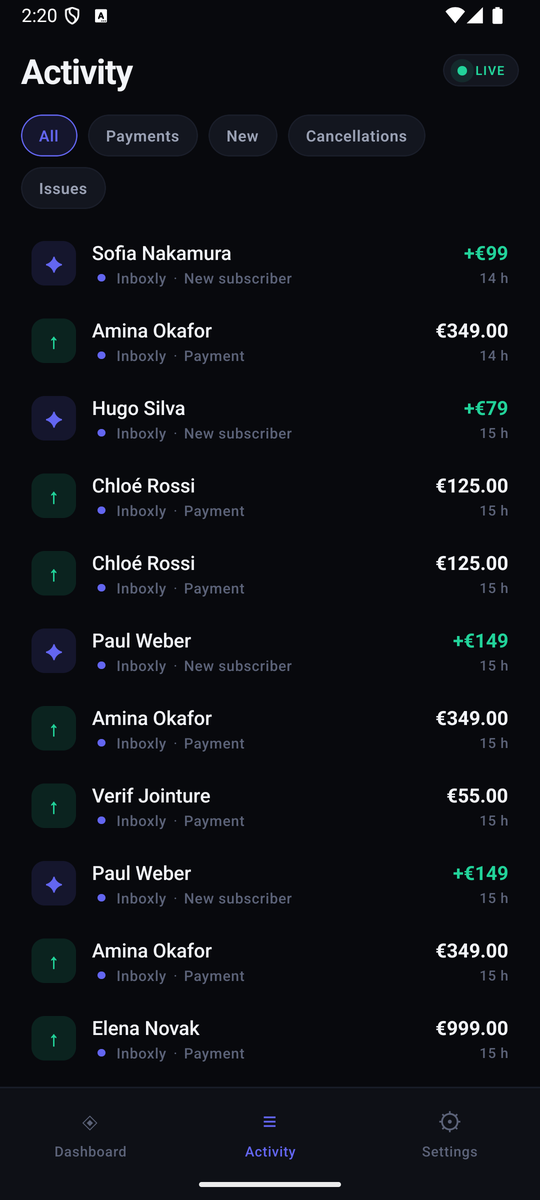
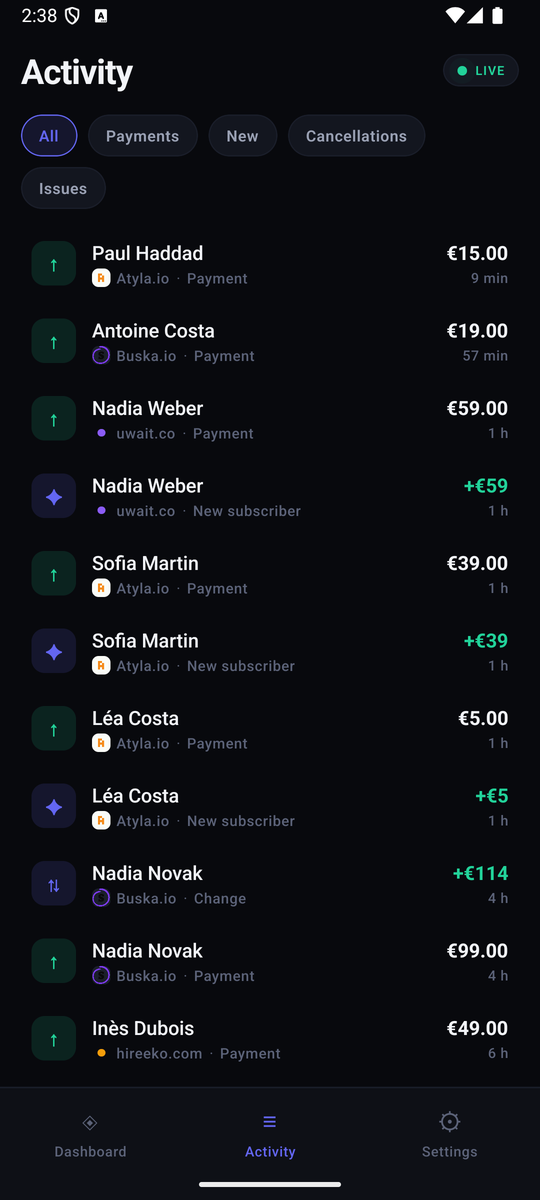
Use real product names in the demo seed, and fix untranslated project cards
The demo data now carries the author's actual product names. Screenshots become
concrete rather than abstract, which helps readers picture the tool — but every
figure remains generated, and the README now says so in a callout rather than a
footnote, so nobody mistakes fabricated revenue for real business performance.

Project cards were missed in the translation pass and still read in French
inside an otherwise English interface.

Documents the cash-register sound, including why it needs its own notification
channel: a channel's sound is frozen at creation, so an already-registered
device would never receive a sound added to an existing one.

diff --git a/server/src/seed.ts b/server/src/seed.ts
@@ -1,6 +1,10 @@
 /**
- * Génère un jeu de données de démonstration réaliste : 8 projets, 24 mois
- * d'historique, croissance, upgrades et attrition.
+ * Génère un jeu de données de démonstration réaliste : 24 mois d'historique,
+ * croissance, changements de formule et attrition.
+ *
+ * Les noms de projets sont ceux de l'auteur, ce qui rend les captures d'écran
+ * plus parlantes — mais **tous les montants sont fabriqués**. Aucun chiffre ici
+ * ne reflète un revenu réel, et la documentation le signale explicitement.
  *
  *   npm run seed            -> alimente la base (ajoute aux données existantes)
  *   npm run seed -- --reset -> vide d'abord les tables
@@ -27,14 +31,12 @@ const between = (min: number, max: number) => min + rand() * (max - min);
 const sec = (d: Date) => Math.floor(d.getTime() / 1000);
 
 const DEMO_PROJECTS = [
-  { id: 'inboxly',    name: 'Inboxly',     color: '#6366f1', subs: 340, plans: [1900, 4900, 9900] },
-  { id: 'pagecraft',  name: 'PageCraft',   color: '#10b981', subs: 210, plans: [900, 2900, 7900] },
-  { id: 'metricbase', name: 'MetricBase',  color: '#f59e0b', subs: 95,  plans: [4900, 14900, 29900] },
-  { id: 'snapform',   name: 'SnapForm',    color: '#ec4899', subs: 480, plans: [500, 1500, 3900] },
-  { id: 'deployr',    name: 'Deployr',     color: '#06b6d4', subs: 62,  plans: [9900, 24900, 49900] },
-  { id: 'lexiq',      name: 'Lexiq',       color: '#8b5cf6', subs: 155, plans: [1200, 2900, 5900] },
-  { id: 'orbitcrm',   name: 'OrbitCRM',    color: '#ef4444', subs: 88,  plans: [3900, 8900, 19900] },
-  { id: 'tinyhost',   name: 'TinyHost',    color: '#14b8a6', subs: 275, plans: [700, 1900, 4900] },
+  { id: 'buska',      name: 'Buska.io',     color: '#6366f1', subs: 340, plans: [1900, 4900, 9900] },
+  { id: 'presspilot', name: 'Presspilot.io', color: '#10b981', subs: 210, plans: [900, 2900, 7900] },
+  { id: 'hireeko',    name: 'hireeko.com',  color: '#f59e0b', subs: 95,  plans: [4900, 14900, 29900] },
+  { id: 'atyla',      name: 'Atyla.io',     color: '#ec4899', subs: 480, plans: [500, 1500, 3900] },
+  { id: 'senthor',    name: 'Senthor.io',   color: '#06b6d4', subs: 62,  plans: [9900, 24900, 49900] },
+  { id: 'uwait',      name: 'uwait.co',     color: '#8b5cf6', subs: 155, plans: [1200, 2900, 5900] },
 ] as const;
 
 const FIRST_NAMES = ['Camille','Julien','Sofia','Marc','Léa','Thomas','Nadia','Hugo','Elena','Karim','Chloé','Antoine','Inès','Lucas','Amina','Paul'];

diff --git a/app/src/components/ProjectCard.tsx b/app/src/components/ProjectCard.tsx
@@ -5,6 +5,7 @@ import { money, moneyCompact, percent, signed } from '../lib/format';
 import type { Metrics } from '../api/types';
 import { ProjectLogo } from './ProjectLogo';
 import { GoalBar } from './GoalBar';
+import { t, plural } from '../i18n';
 
 /**
  * Carte de projet : MRR en vedette, part du total en barre, et le mouvement
@@ -39,7 +40,8 @@ export function ProjectCard({
           </Text>
         </View>
         <Text style={styles.subs}>
-          {metrics.activeSubscribers} abonné{metrics.activeSubscribers > 1 ? 's' : ''}
+          {metrics.activeSubscribers}{' '}
+          {plural(metrics.activeSubscribers, 'subscriber', 'subscribers')}
         </Text>
       </View>
 
@@ -54,7 +56,8 @@ export function ProjectCard({
         <View style={styles.side}>
           <Text style={styles.sideValue}>{moneyCompact(metrics.mtdCents, metrics.currency)}</Text>
           <Text style={styles.sideLabel}>
-            ce mois {metrics.mtdVsPrevPct !== null ? `· ${percent(metrics.mtdVsPrevPct)}` : ''}
+            {t('thisMonth').toLowerCase()}
+            {metrics.mtdVsPrevPct !== null ? ` · ${percent(metrics.mtdVsPrevPct)}` : ''}
           </Text>
         </View>
       </View>

diff --git a/README.md b/README.md
@@ -20,9 +20,11 @@ Self-hosted. Your Stripe keys never leave your server.
 <img src="docs/screenshots/activity.png" width="220" alt="Activity" />
 </div>
 
-<div align="center">
-<sub>Screenshots use generated demo data, not real revenue.</sub>
-</div>
+> [!NOTE]
+> **Every figure in these screenshots is fabricated.** The project names are the
+> author's real products, which makes the screenshots concrete — but the revenue,
+> subscriber counts and growth numbers are generated by the demo seed
+> (`npm run seed`). None of it reflects actual business performance.
 
 ---
 
@@ -81,13 +83,26 @@ detects a full secret key.
 |---|---|
 | **Real time** | Signed Stripe webhooks, pushed to the phone in about a second |
 | **Multi-account** | One Stripe account per project, one consolidated view |
-| **Notifications** | Payment, renewal, new subscriber, cancellation, failure — per-project toggles, amount threshold, cash-register sound |
+| **Notifications** | Payment, renewal, new subscriber, cancellation, failure — per-project toggles, amount threshold |
 | **Metrics** | MRR, ARR, MTD, YTD, year-end projection, new/expansion/contraction/churn |
 | **Goals** | Per project and global, expressed in MRR or ARR |
 | **Home screen widget** | Resizable, three information densities |
 | **Multi-currency** | Converted to your base currency, rates refreshed daily |
 | **Branding** | Project logos pulled automatically from Stripe account branding |
 | **Bilingual** | English and French, follows the device language |
+
+### The cash register
+
+Payments play an actual cash-register *cha-ching* — a separate Android
+notification channel just for money landing, while cancellations and failures
+keep the system sound.
+
+This turned out to be less trivial than it sounds: **a channel's sound is frozen
+at creation and can never be changed afterwards**, so it needs its own channel,
+created at app startup rather than when notifications are enabled — otherwise an
+already-registered device would never receive it.
+
+Swap the sound by replacing `app/assets/sounds/cash.mp3`.
 
 ## What you need
 
